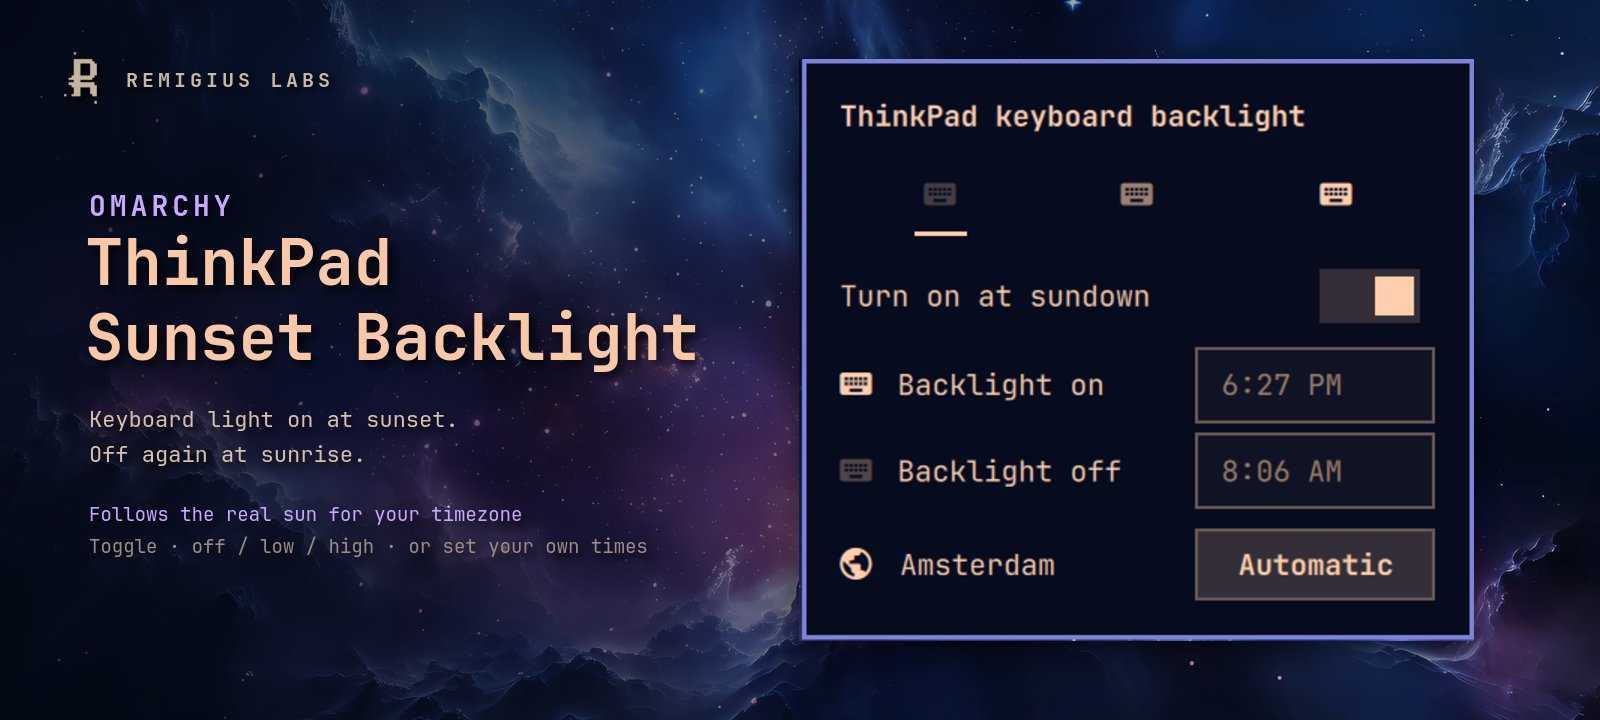
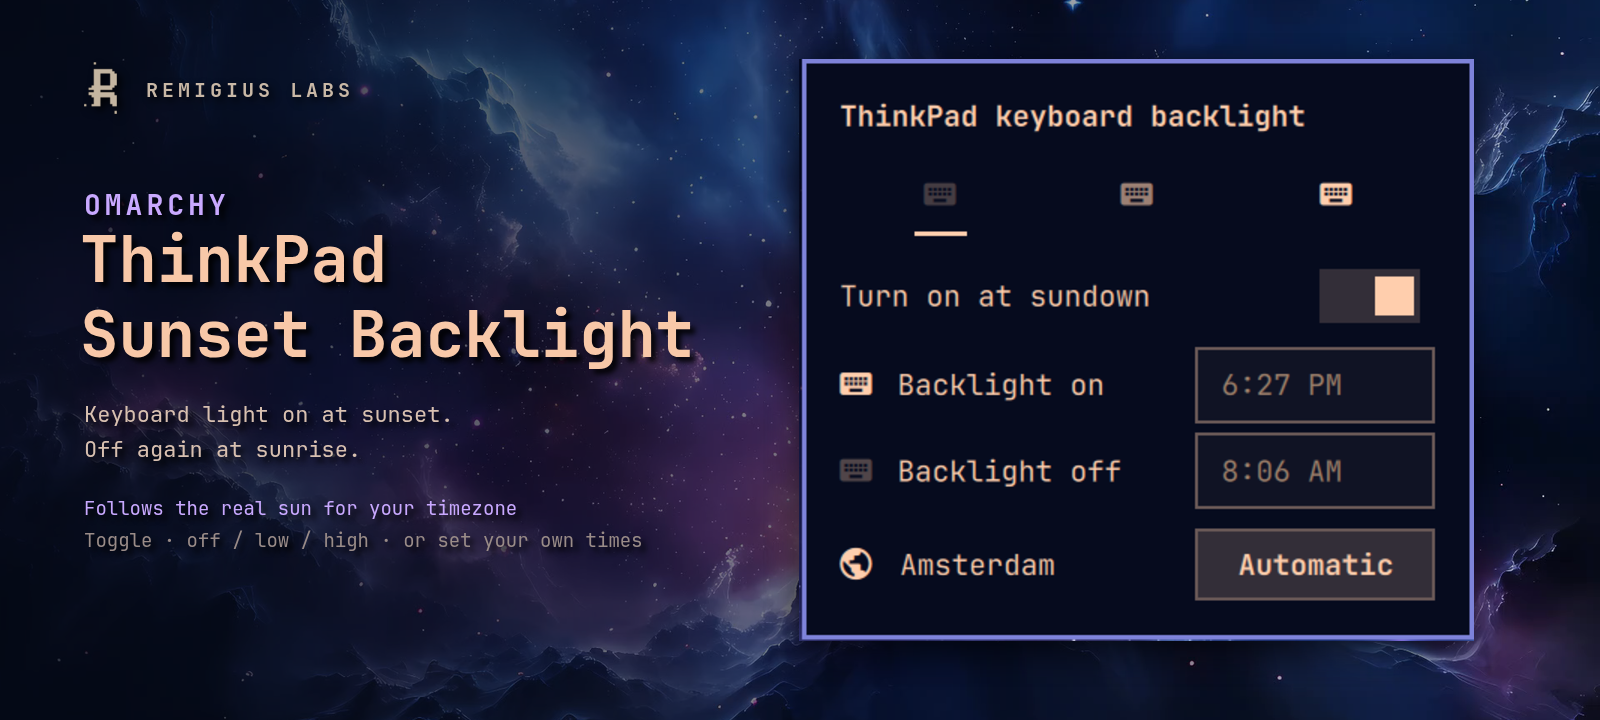
README: store card on top, GIF under Preview; search words

diff --git a/README.md b/README.md
@@ -1,8 +1,8 @@
 # ThinkPad Sunset Backlight
 
-An Omarchy bar widget that turns your ThinkPad keyboard backlight on at the real sunset and off at sunrise, for your timezone. Click to toggle, right-click for brightness and times.
+An Omarchy bar widget that turns your ThinkPad (Lenovo) keyboard backlight on automatically at the real sunset and off at sunrise, for your timezone. Click to toggle, right-click for brightness and times.
 
-![ThinkPad Sunset Backlight menu](preview.gif)
+![ThinkPad Sunset Backlight](preview.png)
 
 - **Click:** on or off, back at the level you last used.
 - **Right-click:** menu with three keyboard icons (dark, dim, bright) for off, low and high, and a "Turn on at sundown" switch.
@@ -34,6 +34,10 @@ omarchy plugin remove remi.kbdlight
 
 - ThinkPads only for now (`tpacpi::kbd_backlight`), with off / low / high.
 - Sundown times use your timezone's main city, so they can be off by about 20 minutes.
+
+## Preview
+
+![ThinkPad Sunset Backlight menu](preview.gif)
 
 ## License
 
